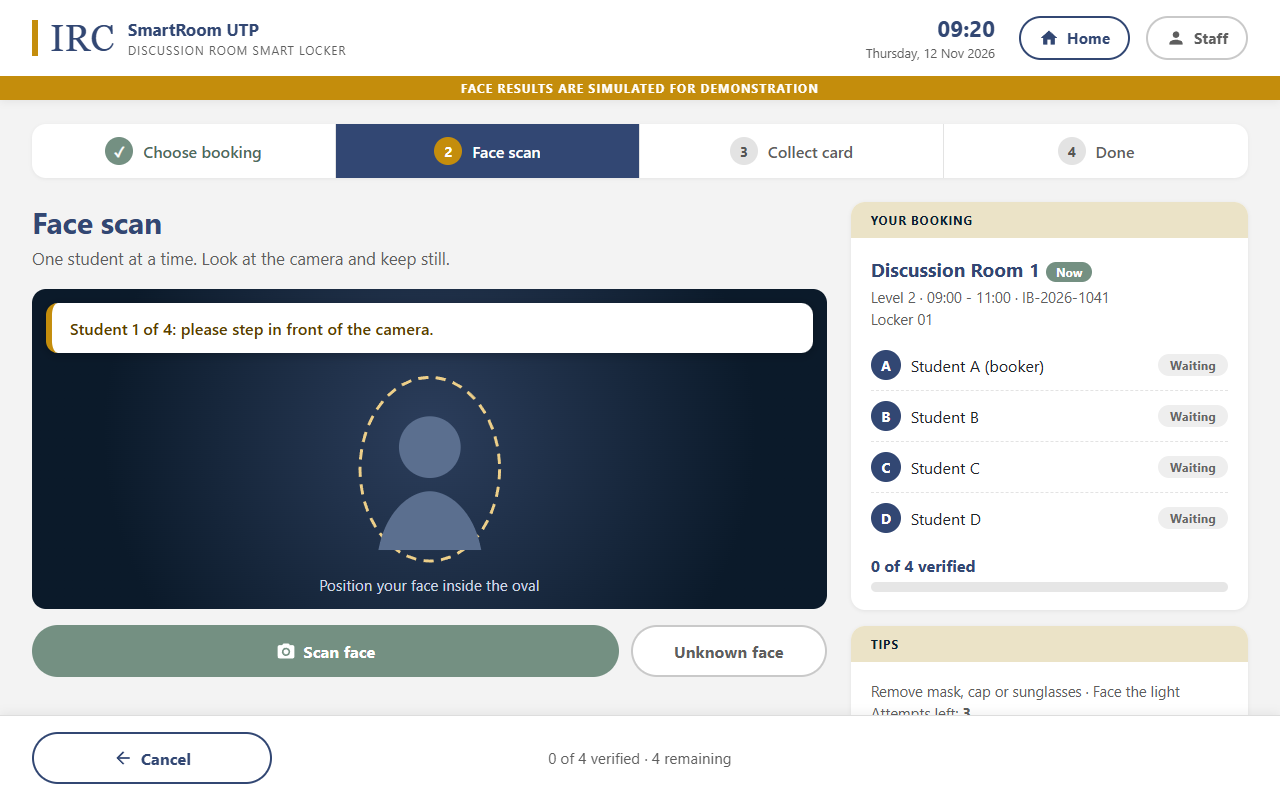
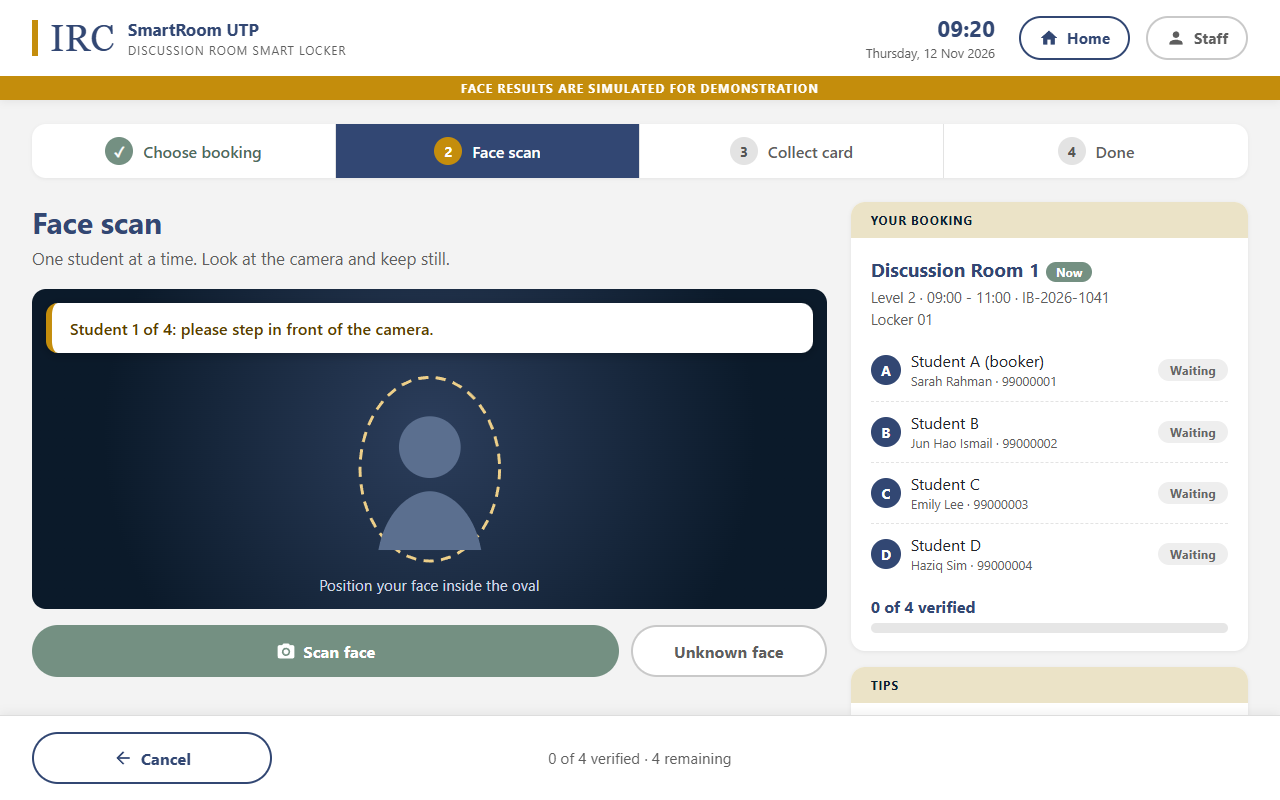
fix camera

Changed region(s): [[0.6562, 0.4375, 1.0, 0.9062], [0.9062, 0.5, 0.9688, 0.6562], [0.9062, 0.4375, 0.9688, 0.4688]]

diff --git a/prototype/demo_gallery.js b/prototype/demo_gallery.js
@@ -1,0 +1,2 @@
+/* Demo enrolments: public LFW faces (made by tools/export_demo_gallery.py). No UTP student data. */
+window.DEMO_GALLERY = {"Student A": {"name": "Sarah Rahman", "student_id": "99000001", "programme": "Geoscience", "faces": [[-0.08896, -0.00702, -0.08753, 0.03557, 0.11625, 0.13639, 0.04779, -0.12981, -0.07824, 0.13977, 0.06468, 0.02821, -0.07393, 0.00874, -0.02421, 0.0663, -0.18075, -0.11486, -0.00788, 0.11863, -0.10432, -0.07169, -0.00219, 0.05744, -0.11145, 0.08707, 0.06839, -0.03869, 0.03819, 0.00592, 0.13986, -0.02138, -0.09414, -0.05975, 0.16406, 0.14113, 0.07747, 0.00786, 0.00916, -0.01286, -0.08078, -0.05205, 0.03101, -0.00431, -0.04712, 0.11169, -0.1525, -0.12585, -0.09344, 0.01694, -0.07843, -0.01325, 0.01363, -0.08194, -0.01062, -0.06323, 0.02774, -0.02895, 0.08814, 0.13476, 0.02888, 0.05447, 0.00014, 0.05148, 0.0015, 0.00635, 0.01808, 0.11895, -0.12982, 0.00423, 0.08792, -0.08408, -0.10513, -0.13726, -0.06882, -0.15961, -0.18916, -0.05201, -0.1437, -0.06068, -0.08229, 0.20904, -0.13407, 0.01383, 0.13756, -0.00819, 0.07634, 0.11093, -0.0759, 0.02384, 0.14779, -0.1487, -0.0608, -0.12043, -0.01581, 0.13134, -0.12354, 0.06309, 0.01711, 0.13679, 0.12513, -0.12677, 0.09426, -0.12202, -0.07412, -0.0295, -1e-05, 0.12155, -0.07542, 0.07708, 0.18937, -0.02028, 0.0237, -0.02756, 0.15282, 0.0698, 0.0306, -0.04813, -0.00617, -0.00284, -0.03711, -0.02656, 0.0321, 0.1006, 0.01617, 0.00234, 0.02223, 0.05719]]}, "Student B": {"name": "Jun Hao Ismail", "student_id": "99000002", "programme": "Civil Engineering", "faces": [[-0.05876, -0.15459, -0.05863, -0.067, -0.06441, 0.08441, -0.02717, 0.00036, -0.01351, -0.08375, 0.10687, 0.25368, 0.1057, -0.12583, 0.00442, 0.09331, -0.03405, 0.07385, -0.16174, -0.02301, -0.08997, -0.15936, 0.03434, -0.03571, -0.01507, 0.02448, 0.03056, 0.00632, -0.16595, -0.06121, -0.23418, 0.02202, 0.06964, -0.03185, 0.07594, -0.0433, -0.13214, 0.01497, 0.11607, -0.00956, 0.013, -0.14841, -0.01654, -0.02094, -0.11257, -0.13446, 0.09992, 0.18109, 0.01061, 0.15553, -0.12828, 0.02917, -0.01941, 0.00863, -0.0087, -0.04015, 0.0725, -0.07151, 0.03968, -0.01167, -0.03807, 0.04979, -0.28281, 0.04493, 0.02317, 0.12914, -0.07967, 0.03762, -0.01579, 0.00554, 0.05554, -0.02071, 0.04605, 0.07694, -0.04036, -0.13412, 0.05884, 0.02196, -0.08198, -0.12004, 0.01404, -0.0835, 0.05858, -0.01547, -0.07532, 0.06203, -0.05166, 0.01119, 0.1113, -0.05764, 0.06093, -0.02089, 0.17373, 0.02544, -0.09822, 0.04736, 0.00776, 0.06177, -0.07566, 0.15609, 0.04739, -0.03544, 0.15597, 0.08037, 0.1239, 0.03686, -0.11442, -0.08485, 0.12187, -0.13225, 0.01853, -0.00862, 0.04149, 0.11645, 0.06307, 0.05947, -0.02137, 0.05971, 0.06453, 0.00958, -0.01398, -0.1355, 0.0002, -0.08697, 0.09801, -0.03321, -0.08105, 0.117]]}, "Student C": {"name": "Emily Lee", "student_id": "99000003", "programme": "Mechanical Engineering", "faces": [[-0.07966, -0.10611, 0.04135, -0.02703, 0.04938, -0.01096, -0.10714, 0.0417, -0.13048, 0.01299, -0.09923, -0.06242, 0.02663, 0.12964, 0.15117, 0.0297, 0.00239, -0.06821, 0.05311, 0.07534, -0.02788, -0.01222, 0.06028, -0.13271, -0.13864, -0.00369, -0.07206, 0.09807, -0.21575, 0.05403, 0.04881, 0.06904, -0.08161, 0.05152, 0.09429, -0.08712, -0.00551, -0.07425, 0.02462, -0.05643, 0.14984, 0.00577, -0.05624, -0.08061, 0.05621, -0.09611, 0.08786, -0.16177, 0.08544, -0.07887, 0.01976, 0.0162, -0.13826, 0.03537, -0.0363, -0.11947, 0.11428, -0.00393, -0.05377, -0.06841, 0.05878, -0.03181, -0.15767, 0.09563, 0.08965, -0.09177, -0.07473, 0.04713, -0.0192, -0.04156, 0.15185, -0.07128, 0.04009, -0.10053, 0.07391, 0.02918, -0.07538, -0.20021, -0.21347, 0.08653, -0.11206, 0.02239, -0.07976, -0.17353, -0.0507, 0.02368, -0.02189, 0.06254, 0.04007, -0.01787, -0.03922, 0.12378, -0.11271, 0.01935, 0.06195, 0.11067, -0.13425, 0.06166, 0.10479, 0.00907, 0.06242, 0.12605, -0.00631, 0.03584, 0.09554, -0.01006, -0.17413, 0.05481, 0.09771, -0.07373, 0.047, 0.19493, 0.064, 0.06079, 0.15153, 0.06143, -0.0794, 0.06235, -0.00962, 0.0863, 0.01252, -0.10347, -0.15758, -0.06003, 0.13253, 0.05602, 0.04177, 0.03298]]}, "Student D": {"name": "Haziq Sim", "student_id": "99000004", "programme": "Electrical and Electronic Engineering", "faces": [[-0.15127, -0.00049, 0.00301, -0.11685, -0.11172, 0.13464, 0.12072, -0.11746, -0.16033, 0.03889, -0.04035, -0.03268, -0.11175, 0.07389, 0.01983, 0.04381, -0.13555, 0.12469, -0.17791, 0.13587, -0.03915, -0.0681, -0.01253, -0.01126, 0.04409, 0.04135, 0.03691, 0.01043, 0.04805, -0.10394, -0.05769, 0.16084, 0.01675, -0.03083, -0.01003, -0.12456, -0.02113, 0.00992, 0.15747, -0.0308, -0.17478, 0.06813, 0.07906, 0.06231, -0.18239, 0.0198, -0.08106, 0.0305, 0.06217, 0.09969, 0.04997, -0.02226, -0.08178, 0.07764, -0.13665, -0.06533, 0.10467, 0.03416, 0.03757, 0.11236, -0.02479, 0.03107, -0.04818, 0.07123, -0.03514, 0.08508, 0.21182, -0.08401, -0.11696, 0.01037, -0.06263, -0.0291, 0.0816, -0.02139, -0.06784, -0.10517, 0.00501, 0.15115, 0.10609, -0.02073, -0.11164, -0.11618, 0.00814, 0.06588, 0.08411, 0.05463, 0.00445, 0.1528, 0.09687, 0.06975, -0.00939, 0.05893, 0.08798, 0.01779, 0.0703, 0.1129, 0.14714, 0.05564, -0.0803, -0.06475, 0.07288, -0.07133, -0.13725, -0.09421, 0.08493, -0.1275, 0.033, -0.01371, 0.11109, -0.03446, 0.01566, -0.03178, -0.05831, 0.20367, 0.00547, 0.12183, -0.09709, -0.00328, -0.02696, 0.03463, -0.06228, -0.01228, 0.04449, -0.11903, 0.09812, -0.05695, -0.0584, -0.18689]]}, "Student E": {"name": "Iman Nair", "student_id": "99000005", "programme": "Mechanical Engineering", "faces": [[-0.07525, -0.03597, 0.13385, -0.0433, -0.06001, 0.11884, -0.10973, 0.09278, -0.15259, -0.03321, -0.05835, 0.14702, 0.06194, 0.04786, 0.12284, -0.05387, -0.04281, 0.05024, -0.06482, 0.00298, -0.04446, -0.08476, 0.12011, -0.00071, -0.09235, 0.07792, -0.00801, -0.09511, -0.04406, 0.06859, 0.00872, 0.01951, 0.05065, -0.10217, -0.01249, -0.025, 0.07046, -0.01592, 0.09709, -0.0422, -0.1082, 0.02113, 0.12699, -0.06589, -0.07943, 0.10586, 0.01251, 0.24763, 0.00934, 0.09587, -0.03311, 0.01549, 0.07291, -0.01638, -0.09741, -0.03887, 0.19858, 0.02994, -0.01075, 0.12051, -0.0039, 0.01668, -0.17246, 0.10885, 0.04365, -0.16005, 0.06518, 0.03689, -0.2225, -0.0935, 0.02896, 0.10236, 0.02674, 0.06993, -0.07554, 0.00501, -0.11278, 0.14092, -0.01873, 0.03982, -0.00661, 0.0407, 0.05329, -0.0675, -0.09629, 0.04757, 0.07146, -0.08974, 0.10694, 0.04358, 0.03441, 0.06136, 0.18785, 0.17635, -0.09431, -0.12225, 0.01298, 0.02949, 0.07959, 0.17992, 0.11817, -0.16352, 0.07883, 0.0814, 0.04214, -0.07274, 0.08712, 0.05159, 0.15225, -0.0376, -0.00932, -0.08611, -0.15691, -0.08934, 0.08841, 0.05308, 0.02204, -0.05192, 0.01935, 0.0154, -0.04445, -0.01279, 0.11316, -0.10609, -0.09302, 0.01677, 0.04962, 0.11974]]}, "Student F": {"name": "Arvin Ahmad", "student_id": "99000006", "programme": "Computer Science", "faces": [[-0.0843, -0.19549, 0.06144, 0.01816, 0.23296, 0.13962, 0.0729, 0.00221, -0.15643, 0.02378, -0.077, -0.11186, -0.07407, 0.0149, -0.04065, 0.06112, -0.12222, 0.18159, -0.05576, -0.14949, -0.12803, 0.10432, -0.06417, 0.00147, -0.0151, -0.05925, -0.03236, -0.02103, -0.17484, 0.00481, -0.12736, 0.0266, 0.08299, 0.03713, 0.14727, 0.02178, 0.07808, -0.07407, 0.05812, 0.22849, 0.12067, -0.14039, 0.13842, 0.09293, -0.00299, 0.01751, 0.08115, 0.01379, 0.05907, -0.02606, -0.13397, 0.15025, 0.0547, -0.09695, 0.07013, 0.06356, 0.05092, -0.00809, 0.12719, 0.0568, 0.01997, 0.09327, -0.07306, 0.03731, 0.04318, -0.03732, 0.07757, -0.06683, 0.20827, -0.00561, 0.12566, 0.04253, -0.05022, -0.03193, -0.01827, 0.0291, 0.06797, 0.09628, -0.17168, -0.04767, 0.10676, 0.00888, -0.03927, -0.04891, -0.06637, -0.11189, 0.07393, -0.07266, -0.05767, 0.08615, 0.01607, 0.2126, 0.03165, -0.08493, -0.02232, -0.11287, -0.01992, 0.02402, 0.1065, 0.08038, -0.00048, -0.01574, -0.07883, 0.03666, 0.045, 0.01903, 0.09997, 0.0565, 0.03789, -0.02239, 0.04752, 0.0796, 0.04658, -0.11392, -0.11239, 0.10604, -0.00209, -0.05871, -0.00998, 0.03194, -0.03449, -0.06005, -0.05973, 0.04232, 0.15229, -0.10239, -0.05262, 0.00017]]}, "Student G": {"name": "Haziq Ng", "student_id": "99000007", "programme": "Civil Engineering", "faces": [[-0.02188, -0.15802, 0.13166, -0.02774, 0.02281, 0.05678, 0.05129, -0.16727, -0.07132, -0.09918, 0.21846, 0.0281, 0.03176, 0.08907, -0.00087, -0.03558, -0.12263, 0.11914, -0.12068, -0.01447, -0.01581, 0.09763, -0.00719, -0.02938, 0.09349, 0.01039, 0.0437, -0.10941, -0.16266, 0.01533, -0.13948, 0.05534, 0.19256, 0.01833, 0.06006, 0.05878, -0.08866, 0.06266, 0.11659, 0.09829, 0.1281, -0.05292, -0.00917, -0.04825, 0.03091, 0.08152, -0.00483, -0.01882, 0.1048, -0.06336, -0.08716, 0.00279, -0.09429, 0.09243, -0.01322, 0.05266, -0.08148, -0.03917, 0.04084, -0.11533, 0.13531, -0.0109, -0.14776, 0.05845, 0.0029, 0.0392, 0.18847, -0.05689, 0.06313, -0.19443, -0.00209, -0.02565, 0.01931, 0.01793, 0.05611, -0.11278, 0.11452, -0.02331, -0.16595, -0.04448, -0.03635, -0.01256, 0.08704, -0.09542, -0.02067, 0.08106, 0.07064, -0.0442, -0.08631, 0.06979, 0.07485, -0.06383, 0.10589, -0.09915, 0.09537, -0.11514, 0.17063, 0.05279, -0.12089, 0.02628, 0.03688, -0.07579, 0.01015, -0.08616, -0.10501, -0.07994, -0.01222, 0.04105, -0.03961, 0.06235, 0.01159, -0.05773, -0.02078, 0.06361, 0.04918, -0.00807, -0.15553, 0.07852, -0.05179, 0.14853, -0.19311, 0.07428, 0.07323, -0.01932, 0.24592, -0.02255, 0.0352, 0.0072]]}, "Student H": {"name": "Divya Tan", "student_id": "99000008", "programme": "Chemical Engineering", "faces": [[-0.19342, -0.06871, 0.04207, 0.15179, 0.20353, -0.05879, 0.09886, -0.04402, -0.04426, 0.07699, 0.06843, -0.01689, -0.00825, 0.10119, 0.02174, 0.02916, 0.02788, 0.13062, -0.05059, -0.07706, -0.01805, 0.01176, 0.06445, -0.17629, 0.00292, -0.07803, -0.12213, 0.05308, 0.09362, 0.00831, 0.02542, -0.02085, -0.03987, 0.03595, -0.13455, 0.06378, 0.01799, -0.12465, -0.02062, 0.15107, 0.13931, -0.14332, -0.19608, 0.0193, -0.00878, 0.04978, -0.1307, -0.07816, -0.02698, -0.1717, 0.04408, -0.12464, 0.03402, 0.01597, 0.01077, 0.06822, -0.10956, 0.10245, 0.03118, -0.01757, -0.16984, 0.03018, -0.01038, -0.04156, 0.07614, -0.11462, 0.03218, 0.00676, -0.08853, 0.03343, 0.03301, 0.05578, -0.0779, -0.03014, 0.03109, -0.22837, -0.12686, -0.14947, -0.00635, 0.01367, -0.00211, -0.13376, 0.01851, -0.03461, -0.03547, -0.0187, 0.13856, 0.05809, -0.00335, 0.04483, 0.01186, 0.10557, 0.14545, -0.04858, 0.01557, -0.06587, 0.0739, 0.08113, 0.13202, -0.01372, 0.14305, -0.0755, 0.03638, -0.01557, 0.00137, -0.05429, -0.0902, -0.11936, 0.07423, 0.11584, 0.11548, -0.12984, -0.11732, 0.12561, -0.02772, 0.13218, -0.1917, -0.00352, 0.10232, 0.03919, -0.14086, -0.02606, 0.02415, -0.04778, -0.02128, -0.0857, -0.03751, 0.0186]]}, "Student I": {"name": "Hakim Kumar", "student_id": "99000009", "programme": "Geoscience", "faces": [[0.00433, -0.08443, -0.04782, 0.08057, 0.09465, -0.0534, 0.1853, -0.03907, 0.1589, -0.14593, -0.10146, 0.07024, -0.00885, -0.162, -0.045, -0.06697, 0.03012, -0.08632, -0.00658, -0.05023, -0.0223, 0.12098, -0.16196, -0.09925, -0.00228, 0.01059, -0.05008, -0.0325, -0.05522, -0.05115, 0.04562, 0.04591, 0.03238, -0.17759, 0.01057, 0.07533, 0.03083, 0.05931, 0.01202, -0.0931, 0.07827, -0.17614, -0.00708, -0.04996, 0.16716, 0.1437, -0.05004, -0.06109, 0.14869, -0.0311, -0.08747, -0.00142, 0.03358, 0.10637, -0.12755, 0.02776, -0.04628, -0.11056, -0.09097, -0.09611, 0.12471, -0.0209, -0.08699, 0.01597, 0.09914, -0.1061, 0.03027, -0.03164, -0.05039, -0.06116, 0.02454, -0.00738, -0.03834, 0.1235, -0.01628, -0.02189, -0.11553, 0.07411, -0.14481, -0.00876, -0.03368, -0.04298, -0.0949, 0.00275, 0.03492, -0.10823, 0.12093, -0.14258, -0.15475, 0.00278, 0.00269, -0.0626, 0.04745, -0.05403, -0.12785, 0.00299, 0.03265, 0.0125, -0.15157, 0.07687, 0.03176, 0.10245, 0.04397, 0.01224, -0.01595, 0.0648, -0.0899, -0.07135, 0.15773, -0.21218, -0.03914, 0.08399, -0.07402, 0.06306, -0.05282, 0.03673, -0.22409, 0.17381, 0.09236, 0.05855, 0.03455, -0.18153, 0.12609, -0.03087, 0.08605, -0.02773, -0.03915, 0.03121]]}, "Student J": {"name": "Jun Hao Ng", "student_id": "99000010", "programme": "Electrical and Electronic Engineering", "faces": [[-0.27432, 0.01286, 0.04003, 0.12682, -0.10401, 0.00239, 0.07215, -0.06261, -0.03187, 0.10586, -0.02002, 0.18579, 0.02177, 0.14348, -0.03925, 0.02276, -0.10044, 0.06281, -0.19508, 0.09646, -0.0766, -0.0105, -0.00184, 0.04673, -0.06289, 0.09972, -0.06356, -0.06714, -0.05749, 0.08682, 0.19147, -0.07152, 0.11184, -0.00496, 0.03246, -0.05876, -0.12132, 0.16567, 0.09426, 0.04779, 0.08581, -0.13008, -0.04251, 0.00437, -0.14469, -0.13889, -0.00782, 0.07487, -0.06088, 0.03248, -0.02234, 0.07568, -0.09387, -0.00037, 0.18159, 0.06716, 0.01715, 0.02627, -0.04034, 0.0204, -0.14591, 0.13897, -0.08684, 0.08929, -0.00508, 0.03411, 0.06889, 0.04746, 0.00714, 0.18053, -0.0024, 0.09226, -0.10229, 0.02328, -0.0564, -0.12056, -0.02135, 0.06478, 0.07946, -0.05363, -0.08932, 0.01427, 0.14194, -0.0907, -0.11821, -0.00805, 0.00456, 0.0017, 0.08237, -0.07192, -0.01492, -0.00932, 0.03543, -0.07988, -0.06513, -0.10754, -0.11331, 0.08513, -0.15841, -0.08813, -0.00748, -0.01828, -0.02421, -0.04548, 0.03178, -0.05514, -0.14988, -0.00801, 0.11255, -0.12801, 0.14155, 0.07837, -0.03743, 0.02809, 0.08164, 0.06938, -0.10873, -0.02389, 0.03534, 0.01994, -0.15088, -0.11721, 0.11296, -0.03931, -0.04948, -0.05121, -0.11148, 0.03454]]}, "Student K": {"name": "Ryan Kumar", "student_id": "99000011", "programme": "Electrical and Electronic Engineering", "faces": [[-0.09326, -0.04546, 0.10401, 0.13091, 0.13904, 0.09356, 0.11246, 0.17867, -0.09295, 0.18319, 0.05358, -0.06321, -0.01261, -0.12009, -0.02276, -0.12303, 0.01938, 0.0374, -0.06864, -0.00284, 0.08808, 0.01664, 0.15002, 0.04107, -0.08612, -0.03281, 0.00057, -0.1069, -0.08565, -0.19045, 0.01605, 0.01277, 0.06521, 0.01722, -0.00091, 0.02097, 0.07225, 0.12221, 0.00548, 0.03745, 0.11231, 0.03142, -0.01635, 0.00399, 0.16018, -0.0465, 0.09645, 0.00924, -0.07113, -0.11908, -0.04416, 0.05422, 0.00601, -0.0363, 0.05174, -0.12889, -0.10698, 0.1046, -0.00352, -0.00512, -0.11352, 0.20494, -0.01369, 0.10038, 0.03088, 0.05134, -0.11973, -0.03152, -0.03257, -0.01019, 0.10172, 0.03643, -0.05136, -0.04179, 0.01309, 0.089, -0.09313, -0.09211, -0.12437, 0.13865, -0.18646, 0.11487, 0.08117, 0.01333, 0.13042, 0.05452, -0.10685, -0.0147, -0.03038, -0.0237, 0.01053, -0.07375, -0.04662, 0.14825, -0.0977, -0.01605, -0.0193, 0.01665, -0.10768, -0.16341, 0.02823, -0.01417, -0.03601, -0.16343, -0.1897, -0.0285, -0.02922, -0.02606, 0.08197, 0.06999, 0.06546, -0.13113, -0.02385, -0.11582, 0.18164, -0.0548, 0.04161, 0.02626, 0.11232, -0.09778, 0.01787, -0.10465, -0.06223, 0.08751, 0.15928, -0.03955, 0.08491, 0.04818]]}, "Student L": {"name": "Wei Jie Lim", "student_id": "99000012", "programme": "Computer Science", "faces": [[-0.13414, -0.00532, 0.15865, -0.09763, 0.11505, -0.01323, 0.01542, 0.00568, -0.15758, 0.01902, 0.08117, 0.04048, -0.1078, -0.02459, -0.07868, -0.13295, -0.2319, -0.08363, 0.00742, -0.14197, 0.12793, 0.04745, -0.05686, 0.05951, 0.07857, -0.04675, -0.00519, 0.01446, -0.10748, -0.02149, -0.0933, 0.05889, 0.09821, 0.12691, -0.01541, 0.11912, -0.11674, 0.07094, -0.06944, -0.05449, 0.02289, -0.00525, -0.05271, 0.14682, 0.03113, -0.18014, 0.04197, -0.0368, -0.04381, 0.15753, -0.05949, -0.01925, 0.06317, -0.03794, -0.04395, -0.08193, 0.01015, 0.12458, 0.00133, 0.07174, -0.03265, 0.18404, -0.057, -0.02627, -0.0775, -0.00234, -0.01047, -0.05475, 0.01782, -0.12092, -0.12004, -0.04848, -0.05094, 0.0981, 0.04284, 0.03654, 0.08025, 0.05799, -0.06078, 0.0127, 0.01597, 0.03795, -0.12423, -0.144, -0.00811, 0.02298, 0.05004, -0.10962, 0.02043, 0.19117, 0.0277, -0.14594, 0.02948, 0.01985, -0.00529, -0.09454, -0.00348, 0.06817, 0.07963, 0.00485, 0.02238, -0.06563, 0.2051, -0.14975, 0.20089, -0.0498, 0.17191, 0.0887, 0.06576, -0.26351, 0.09249, -0.09704, 0.00908, 0.00735, 0.03063, 0.07695, 0.01257, 0.05632, 0.10153, 0.0162, -0.01378, -0.00141, 0.02835, -0.09271, -0.04239, -0.05715, 0.11022, -0.01979]]}, "Student M": {"name": "Sofea Musa", "student_id": "99000013", "programme": "Chemical Engineering", "faces": [[-0.12877, 0.07681, 0.00042, 0.2077, 0.07915, 0.09464, -0.07707, -0.06007, 0.06715, -0.03551, -0.01087, -0.11083, -0.06772, -0.09354, 0.06771, 0.00252, -0.0791, 0.00874, 0.01951, -0.00011, -0.08551, 0.05688, -0.1892, -0.031, 0.11036, -0.0431, 0.07712, 0.03939, 0.01656, -0.05397, 0.04407, 0.1414, 0.05584, -0.04087, -0.09731, 0.052, 0.00373, 0.1275, 0.07121, -0.04963, -0.07048, -0.08341, 0.0008, 0.04969, 0.06026, -0.0293, -0.16469, -0.11229, -0.04927, 0.1123, -0.15332, 0.03626, -0.01943, 0.03375, -0.08212, 0.18498, 0.11247, 0.1502, 0.00016, 0.06664, 0.02635, -0.15394, -0.00603, 0.18394, -0.01101, -0.06299, 0.06252, -0.05414, -0.0028, 0.18614, -0.02105, -0.12685, -0.03623, -0.16436, 0.0935, 0.04647, -0.12788, -0.04269, -0.01511, -0.08241, 0.01423, -0.05057, -0.26417, 0.09155, -0.12086, -0.06723, 0.04605, -0.09471, -0.03875, -0.03305, 0.11892, -0.01907, 0.13537, -0.0394, 0.01613, 0.02101, -0.10957, 0.21096, -0.08844, -0.09664, -0.09763, -0.08941, 0.06387, -0.05623, 0.15335, -0.04129, 0.03088, 0.04198, 0.01786, 0.07373, -0.05409, 0.09488, 0.05458, -0.05511, -0.02535, 0.06903, 0.06565, 0.02524, -0.03321, 0.03117, 0.07677, 0.00397, -0.06938, -0.03396, -0.1211, -0.04493, -0.01596, 0.16282]]}, "Student N": {"name": "Daniel Osman", "student_id": "99000014", "programme": "Petroleum Engineering", "faces": [[0.0189, -0.08266, 0.04094, 0.07766, -0.05835, 0.168, -0.06697, -0.17063, -0.02167, 0.01876, -0.09843, 0.04977, -0.02042, 0.0924, -0.00599, 0.10602, -0.16191, -0.11618, -0.05272, 0.01468, -0.14975, 0.05764, -0.07852, -0.11991, -0.21009, 0.1213, -0.03331, -0.02579, 0.01185, -0.20574, 0.04915, -0.09782, -0.00159, 0.01412, -0.02597, 0.15515, -0.047, -0.08799, 0.00854, 0.03769, -0.01358, -0.06329, -0.04745, -0.0324, -0.02079, -0.05617, -0.05194, 0.10427, 0.06403, -0.04063, -0.15454, -0.06296, 0.01149, 0.13366, 0.0327, -0.20058, -0.01007, -0.01224, 0.04765, 0.10284, 0.03391, 0.10305, -0.17147, -0.01108, -0.01285, 0.03806, -0.00079, -0.06283, 0.12568, -0.07071, 0.15378, -0.03679, -0.10367, -0.06387, 0.17413, -0.03754, -0.07679, -0.01517, -0.10863, 0.07985, 0.06366, 0.17175, 0.00793, 0.12191, 0.02018, -0.15251, 0.19727, 0.01518, -0.01152, -0.04409, 0.01275, 0.05438, -0.01869, 0.08641, 0.04569, -0.02433, -0.02214, -0.09292, -0.03869, 0.00317, 0.07035, -0.00448, 0.11035, 0.08061, 0.07112, -0.02731, 0.064, -0.04074, 0.08465, -0.07667, 0.13417, 0.068, -0.02835, 0.04781, 0.18094, 0.04121, -0.08774, -0.03053, 0.05905, -0.0292, 0.01901, -0.07344, 0.19585, -0.08172, 0.0422, -0.09262, -0.07252, 0.16321]]}, "Student O": {"name": "Daniel Wong", "student_id": "99000015", "programme": "Chemical Engineering", "faces": [[-0.22272, -0.01489, 0.09832, -0.04644, -0.04761, 0.02189, -0.01966, -0.02231, -0.13619, 0.13339, -0.00529, -0.09332, 0.03224, -0.07617, 0.07587, -0.09588, -0.05127, -0.09114, -0.02027, -0.17784, 0.08886, 0.0283, 0.13168, -0.11613, 0.01919, -0.08766, 0.03692, 0.10678, -0.13007, 0.01163, 0.14042, 0.11015, -0.08906, -0.03267, 0.10006, 0.02917, -0.0663, 0.04493, -0.16787, 0.03446, -0.06048, 0.03135, 0.08021, -0.07721, -0.0691, 0.04973, 0.00097, -0.1297, 0.06495, 0.23978, 0.00297, -0.01522, -0.04405, 0.1371, 0.01146, -0.04613, -0.03358, 0.02008, -0.04408, 0.13965, 0.00197, 0.04366, -0.13005, 0.07063, 0.01775, -0.08777, 0.058, -0.09682, 0.06935, 0.06137, 0.07336, -0.02069, 0.14371, -0.05789, 0.06361, 0.07491, -0.00625, -0.05035, -0.17048, 0.09246, 0.10249, 0.08481, 0.02, -0.05392, -0.06479, -0.1734, 0.132, -0.17042, 0.0983, -0.09288, -0.00457, -0.09704, 0.08063, 0.07098, 0.14258, -0.02418, 0.06458, -0.1179, -0.09565, 0.14787, -0.07503, -0.0506, 0.03084, -0.09696, -0.04525, 0.04474, -0.09012, 0.00749, 0.07707, -0.04818, 0.10165, 0.09641, 0.00645, 0.17222, 0.01611, 0.10928, -0.00689, -0.02796, 0.13635, 0.06648, 0.02605, -0.03006, 0.05821, 0.16431, -0.06417, 0.01519, -0.03056, -0.07421]]}};

diff --git a/prototype/index.html b/prototype/index.html
@@ -202,6 +202,7 @@ th{color:var(--muted); font-weight:600; font-size:.8rem; text-transform:uppercas
 
 <script src="https://cdn.jsdelivr.net/npm/onnxruntime-web@1.20.1/dist/ort.min.js"></script>
 <script src="face.js"></script>
+<script src="demo_gallery.js"></script>
 <script>
 /* ---------------- mock iBEST data (student codes only) ---------------- */
 const BOOKINGS = [
@@ -229,7 +230,8 @@ function now(){ const d=new Date(); if(DEMO){const [h,m]=DEMO.split(":"); d.setH
 /* ---------------- state ---------------- */
 const S = {checks:{}, page:"home", mode:"collect", booking:null, verified:{}, fails:0, msg:null, override:false,
            t0:0, staffOk:false, staffTab:"override", prev:null, log:[], query:"",
-           live: new URLSearchParams(location.search).has("live") || store.get("live", false),
+           /* live camera by default; ?sim forces simulation (used by the screenshot script) */
+           live: !new URLSearchParams(location.search).has("sim") && store.get("live", true),
            gallery: store.get("gallery", {}), model:"idle", modelPct:0, busy:false, enrolCode:"Student A", enrolMsg:null};
 
 const ICON = {
@@ -249,6 +251,9 @@ const ICON = {
 /* ---------------- helpers ---------------- */
 const $ = id => document.getElementById(id);
 const need = () => S.mode==="collect" ? CFG.needCollect : CFG.needReturn;
+const DEMO_FACES = window.DEMO_GALLERY || {};
+const faces = code => [...(S.gallery[code] || []), ...(DEMO_FACES[code]?.faces || [])];
+const who = code => DEMO_FACES[code] ? `${DEMO_FACES[code].name} (${DEMO_FACES[code].student_id})` : code;
 const pending = () => S.booking.members.filter(m => !(m in S.verified));
 const approved = () => Object.keys(S.verified).length >= need();
 const byStaff = () => Object.keys(S.verified).filter(m => S.verified[m]==="staff");
@@ -306,8 +311,9 @@ function bookingPanel(showStatus){
     const ok = m in S.verified, staff = S.verified[m]==="staff";
     const chip = !showStatus ? "" : staff ? '<span class="chip c-staff">✓ Staff checked</span>'
                : ok ? '<span class="chip c-ok">✓ Verified</span>'
-               : S.live && !S.gallery[m] ? '<span class="chip c-none">Not enrolled</span>' : '<span class="chip c-wait">Waiting</span>';
-    return `<div class="member"><span class="who"><span class="av ${staff?"staff":ok?"ok":""}">${m.split(" ")[1]}</span>${m}${m===b.by?" (booker)":""}</span>${chip}</div>`;
+               : S.live && !faces(m).length ? '<span class="chip c-none">Not enrolled</span>' : '<span class="chip c-wait">Waiting</span>';
+    const sub = DEMO_FACES[m] ? `<span class="sub" style="display:block;font-size:.8rem">${DEMO_FACES[m].name} · ${DEMO_FACES[m].student_id}</span>` : "";
+    return `<div class="member"><span class="who"><span class="av ${staff?"staff":ok?"ok":""}">${m.split(" ")[1]}</span><span>${m}${m===b.by?" (booker)":""}${sub}</span></span>${chip}</div>`;
   }).join("");
   const prog = showStatus ? `<div style="margin-top:12px;font-weight:700;color:var(--navy)">${n} of ${req} verified${byStaff().length?` <span class="sub">· ${byStaff().length} by staff card check</span>`:""}</div>
      <div class="progress"><div style="width:${Math.min(100,100*n/req)}%"></div></div>` : "";
@@ -440,7 +446,8 @@ staff(){
       : `<div class="msg m-info">No denied verification waiting. Requests appear here when a student presses Call staff.</div>`;
   } else if (S.staffTab==="enrol"){
     const em = S.enrolMsg ? `<div class="msg m-${S.enrolMsg[0]}" style="margin-bottom:12px">${S.enrolMsg[1]}</div>` : "";
-    const rows = CODES.map(c => `<tr><td>${c}</td><td>${(S.gallery[c]||[]).length || '<span class="sub">-</span>'}</td>
+    const rows = CODES.map(c => `<tr><td>${c}${DEMO_FACES[c]?` <span class="sub">· ${DEMO_FACES[c].name}</span>`:""}</td>
+      <td>${(S.gallery[c]||[]).length || '<span class="sub">-</span>'}${DEMO_FACES[c]?' <span class="sub">+ 1 demo</span>':""}</td>
       <td>${S.gallery[c] ? `<button class="tab" style="padding:4px 8px" onclick="unenrol('${c}')">Remove</button>` : ""}</td></tr>`).join("");
     body = `${em}<div class="card"><div class="cb enrolgrid">
       <div><div class="enrolcam"><video id="video" autoplay playsinline muted></video></div>
@@ -520,7 +527,7 @@ async function syncCamera(){
 function bestMatch(emb, codes = S.booking.members){  // default: only the students on this booking
   let best = {code:null, score:-1};
   for (const code of codes)
-    for (const ref of S.gallery[code] || []){
+    for (const ref of faces(code)){
       const sc = Face.cosine(emb, ref);
       if (sc > best.score) best = {code, score:sc};
     }
@@ -538,17 +545,17 @@ async function scanLive(){
   else {
     const {code, score} = bestMatch(r.emb);
     if (code && score >= CFG.threshold){
-      if (code in S.verified) S.msg = ["info", `${code} is already verified. Next student, please.`];
-      else { S.verified[code] = score; S.fails = 0; S.msg = ["ok", `✓ ${code} verified (score ${score.toFixed(2)}). Next student, please.`]; }
+      if (code in S.verified) S.msg = ["info", `${who(code)} is already verified. Next student, please.`];
+      else { S.verified[code] = score; S.fails = 0; S.msg = ["ok", `✓ ${code}: ${who(code)} verified (score ${score.toFixed(2)}). Next student, please.`]; }
     } else {
       // Explain why, so a wrong booking or missing enrolment is obvious
       S.fails++;
-      const other = bestMatch(r.emb, Object.keys(S.gallery).filter(c => !S.booking.members.includes(c)));
-      const enrolled = S.booking.members.filter(m => S.gallery[m]).length;
+      const other = bestMatch(r.emb, CODES.filter(c => !S.booking.members.includes(c)));
+      const enrolled = S.booking.members.filter(m => faces(m).length).length;
       S.msg = ["bad", !enrolled
         ? "No student on this booking is enrolled on this device yet. Ask staff to enrol faces (Staff → Enrol faces)."
         : other.code && other.score >= CFG.threshold
-        ? `This face matches ${other.code} (score ${other.score.toFixed(2)}), who is not on this booking. Choose the right booking.`
+        ? `This face matches ${other.code}: ${who(other.code)} (score ${other.score.toFixed(2)}), who is not on this booking. Choose the right booking.`
         : `Face not recognised as a student on this booking (best score ${Math.max(0,score).toFixed(2)}, needs ${CFG.threshold.toFixed(2)}). Face the camera in good light and try again.`];
     }
   }

diff --git a/tools/export_demo_gallery.py b/tools/export_demo_gallery.py
@@ -1,0 +1,68 @@
+"""Pre-enrol the kiosk with public LFW people so it can recognise faces with no setup.
+
+Booking members Student A, B, C ... are mapped to LFW people 001, 002, 003 ... (data/open_lfw/).
+Only public LFW faces are used, never the UTP students, because the kiosk site is public.
+
+Output:
+  prototype/demo_gallery.js            128 numbers per person from photo _1, plus fake name and student ID
+  data/demo_test_photos/<booking>/...  photo _2 of each person, to show to the camera (not committed)
+
+Usage: python tools/export_demo_gallery.py
+"""
+import json
+import shutil
+import string
+import sys
+from pathlib import Path
+
+import cv2
+
+ROOT = Path(__file__).resolve().parents[1]
+sys.path.insert(0, str(ROOT))
+from src.face_model import FaceModel  # noqa: E402
+
+LFW = ROOT / "data" / "open_lfw"
+OUT_JS = ROOT / "prototype" / "demo_gallery.js"
+PHOTOS = ROOT / "data" / "demo_test_photos"
+# Same mock bookings as prototype/index.html
+BOOKINGS = {
+    "Discussion Room 1": "ABCD",
+    "Discussion Room 3": "EFGH",
+    "Discussion Room 5": "BIJK",
+    "Meeting Room 2": "LMNO",
+}
+
+
+def main():
+    model = FaceModel()
+    letters = sorted({c for members in BOOKINGS.values() for c in members})
+    gallery = {}
+    for i, letter in enumerate(letters, start=1):
+        num = f"{i:03d}"
+        info = json.loads((LFW / num / "info.json").read_text())
+        enrol = model.embed(cv2.imread(str(LFW / num / f"{num}_1.jpg")))
+        probe = model.embed(cv2.imread(str(LFW / num / f"{num}_2.jpg")))
+        score = float(enrol @ probe)
+        gallery[f"Student {letter}"] = {
+            "name": info["name"], "student_id": info["student_id"], "programme": info["programme"],
+            "faces": [[round(float(v), 5) for v in enrol]],
+        }
+        print(f"Student {letter} = LFW {num} {info['name']:<20} photo 2 vs photo 1: {score:.2f}")
+
+    OUT_JS.write_text(
+        "/* Demo enrolments: public LFW faces (made by tools/export_demo_gallery.py). No UTP student data. */\n"
+        f"window.DEMO_GALLERY = {json.dumps(gallery)};\n")
+
+    shutil.rmtree(PHOTOS, ignore_errors=True)
+    for room, members in BOOKINGS.items():
+        folder = PHOTOS / room
+        folder.mkdir(parents=True)
+        for letter in members:
+            num = f"{letters.index(letter) + 1:03d}"
+            name = gallery[f"Student {letter}"]["name"]
+            shutil.copy(LFW / num / f"{num}_2.jpg", folder / f"Student {letter} - {name}.jpg")
+    print(f"\nWrote {OUT_JS.relative_to(ROOT)} and test photos in {PHOTOS.relative_to(ROOT)}")
+
+
+if __name__ == "__main__":
+    main()

diff --git a/tools/capture_screens.py b/tools/capture_screens.py
@@ -12,7 +12,7 @@ from playwright.sync_api import sync_playwright
 
 ROOT = Path(__file__).resolve().parents[1]
 OUT = ROOT / "docs" / "screenshots"
-PAGE = (ROOT / "prototype" / "index.html").as_uri() + "?time=09:20"
+PAGE = (ROOT / "prototype" / "index.html").as_uri() + "?time=09:20&sim"
 
 
 def main(channel, width, height):

diff --git a/docs/hosting.md b/docs/hosting.md
@@ -17,9 +17,8 @@ If you re-run `evaluate.py` and the threshold changes, update `CFG.threshold` in
 
 ## Live mode vs simulation
 
-- **Simulation** (default): no camera, results are simulated. Used for the screenshots.
-- **Live**: Staff (PIN `1234`) → Settings → tick **Live camera and face model**, or open the page with `?live=1`.
-  The first time, the model downloads (about 39 MB) and the browser asks for camera permission.
+- **Live** (default): the browser asks for camera permission; the first time, the model downloads (about 39 MB).
+- **Simulation**: no camera, results are simulated. Turn it on with Staff (PIN `1234`) → Settings → untick **Live camera and face model**, or open the page with `?sim`. The screenshot script uses this.
 
 ## Run on your laptop
 
@@ -29,7 +28,7 @@ The camera only works on `https://` or `localhost`, so start a tiny local server
 python -m http.server 8000
 ```
 
-Then open <http://localhost:8000/prototype/?live=1>.
+Then open <http://localhost:8000/prototype/>.
 
 ## Host online
 
@@ -40,7 +39,7 @@ The repo already contains `.github/workflows/pages.yml`, which publishes only th
 1. Push the workflow and `prototype/` to the `main` branch.
 2. On GitHub: **Settings → Pages → Build and deployment → Source: GitHub Actions**.
 3. Open the **Actions** tab and wait for "Deploy kiosk to GitHub Pages" to turn green (about 1 minute).
-4. The site is at **https://eavan127.github.io/SmartRoom_UTP_AI/** (add `?live=1` for the camera).
+4. The site is at **https://eavan127.github.io/SmartRoom_UTP_AI/** (camera is on by default).
 
 Every later push that changes `prototype/` redeploys automatically.
 GitHub Pages is free for public repos. For a private repo you need GitHub Pro, which is free with the GitHub Student Developer Pack.
@@ -51,9 +50,19 @@ GitHub Pages is free for public repos. For a private repo you need GitHub Pro, w
 2. Drag the `prototype` folder onto the page.
 3. Netlify gives you an `https://….netlify.app` link. To update, drag the folder again.
 
+## Built-in demo people (works with no enrolment)
+
+`prototype/demo_gallery.js` pre-enrols the booking members with public LFW faces (made by `python tools/export_demo_gallery.py`):
+Student A-O = LFW people 001-015, with their fake names and student IDs. On a match the kiosk shows e.g.
+"✓ Student A: Sarah Rahman (99000001) verified".
+
+To test without your team: open `data/demo_test_photos/<room>/` on your phone (these are each person's *other* photo,
+not the one enrolled), choose that room's booking on the kiosk, and hold each photo up to the webcam.
+UTP students are never included here, because the site is public.
+
 ## Demo checklist
 
-1. Open the hosted link with `?live=1` on the laptop that will act as the kiosk.
+1. Open the hosted link on the laptop that will act as the kiosk and allow the camera.
 2. Staff → Enrol faces: enrol each team member 2-3 times as Student A, B, C, D.
 3. Exit staff → Collect Room Card → Discussion Room 1 → each member presses **Scan face**.
 4. Record the scenarios (all verified, stranger, missing member + staff override, return).
